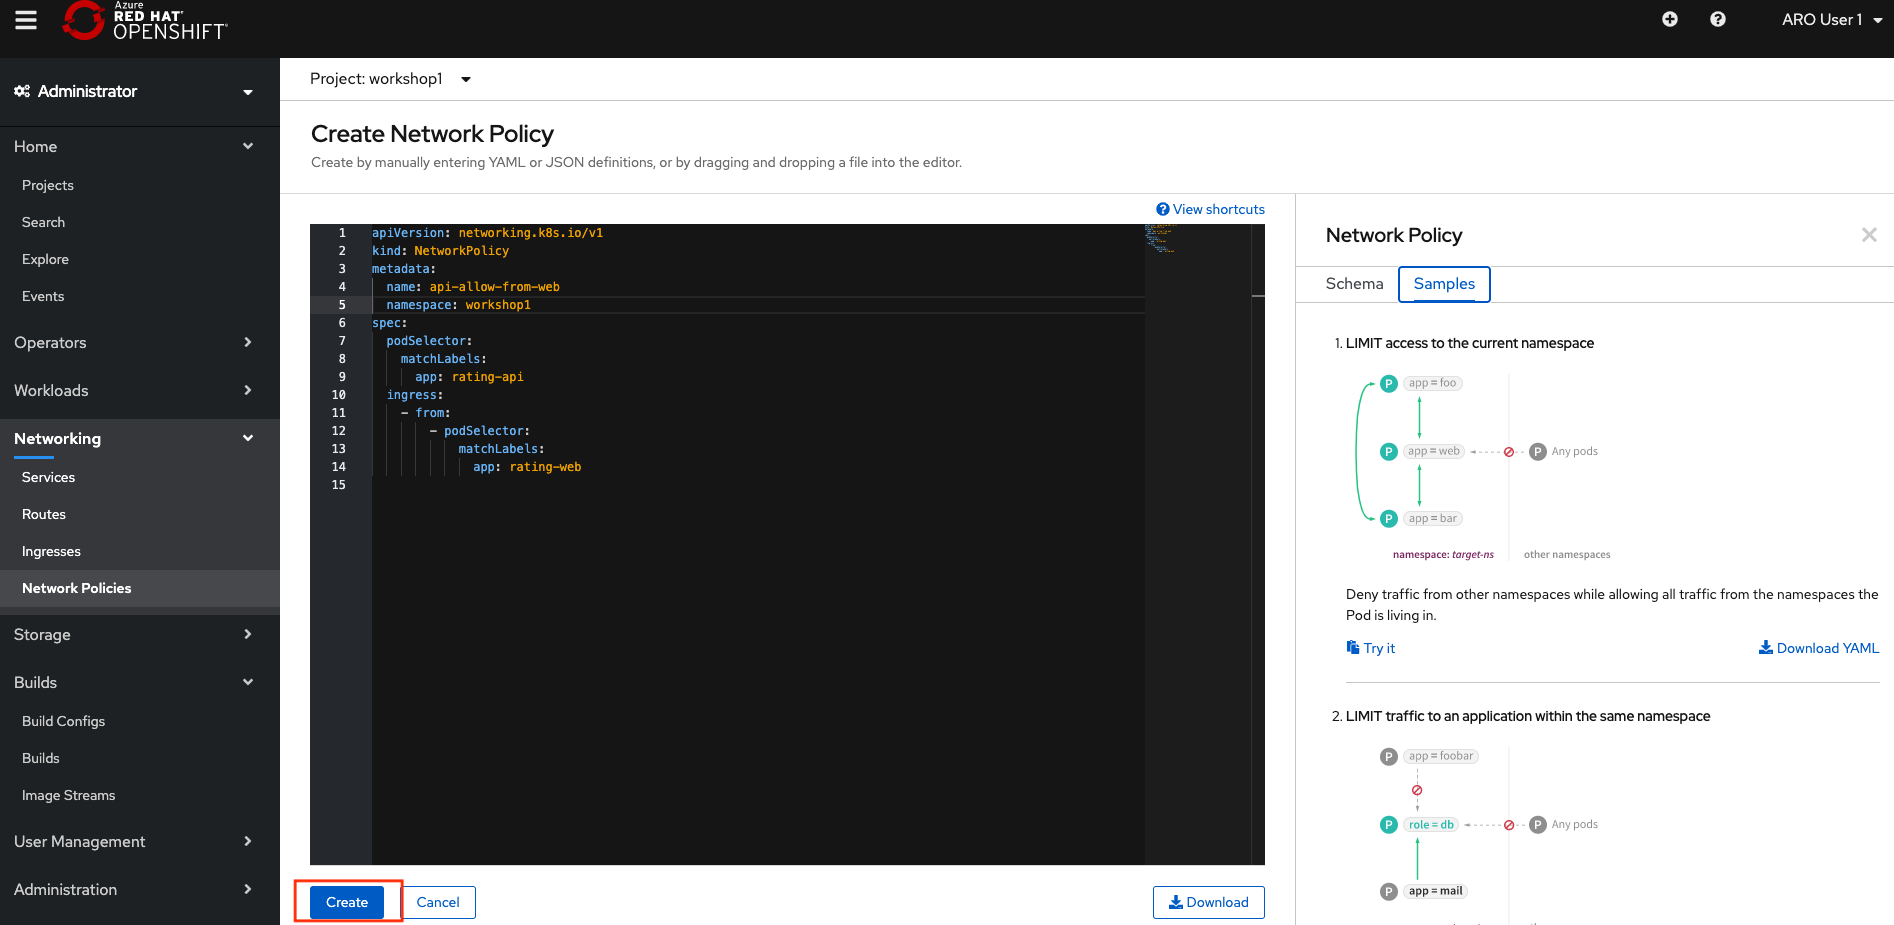
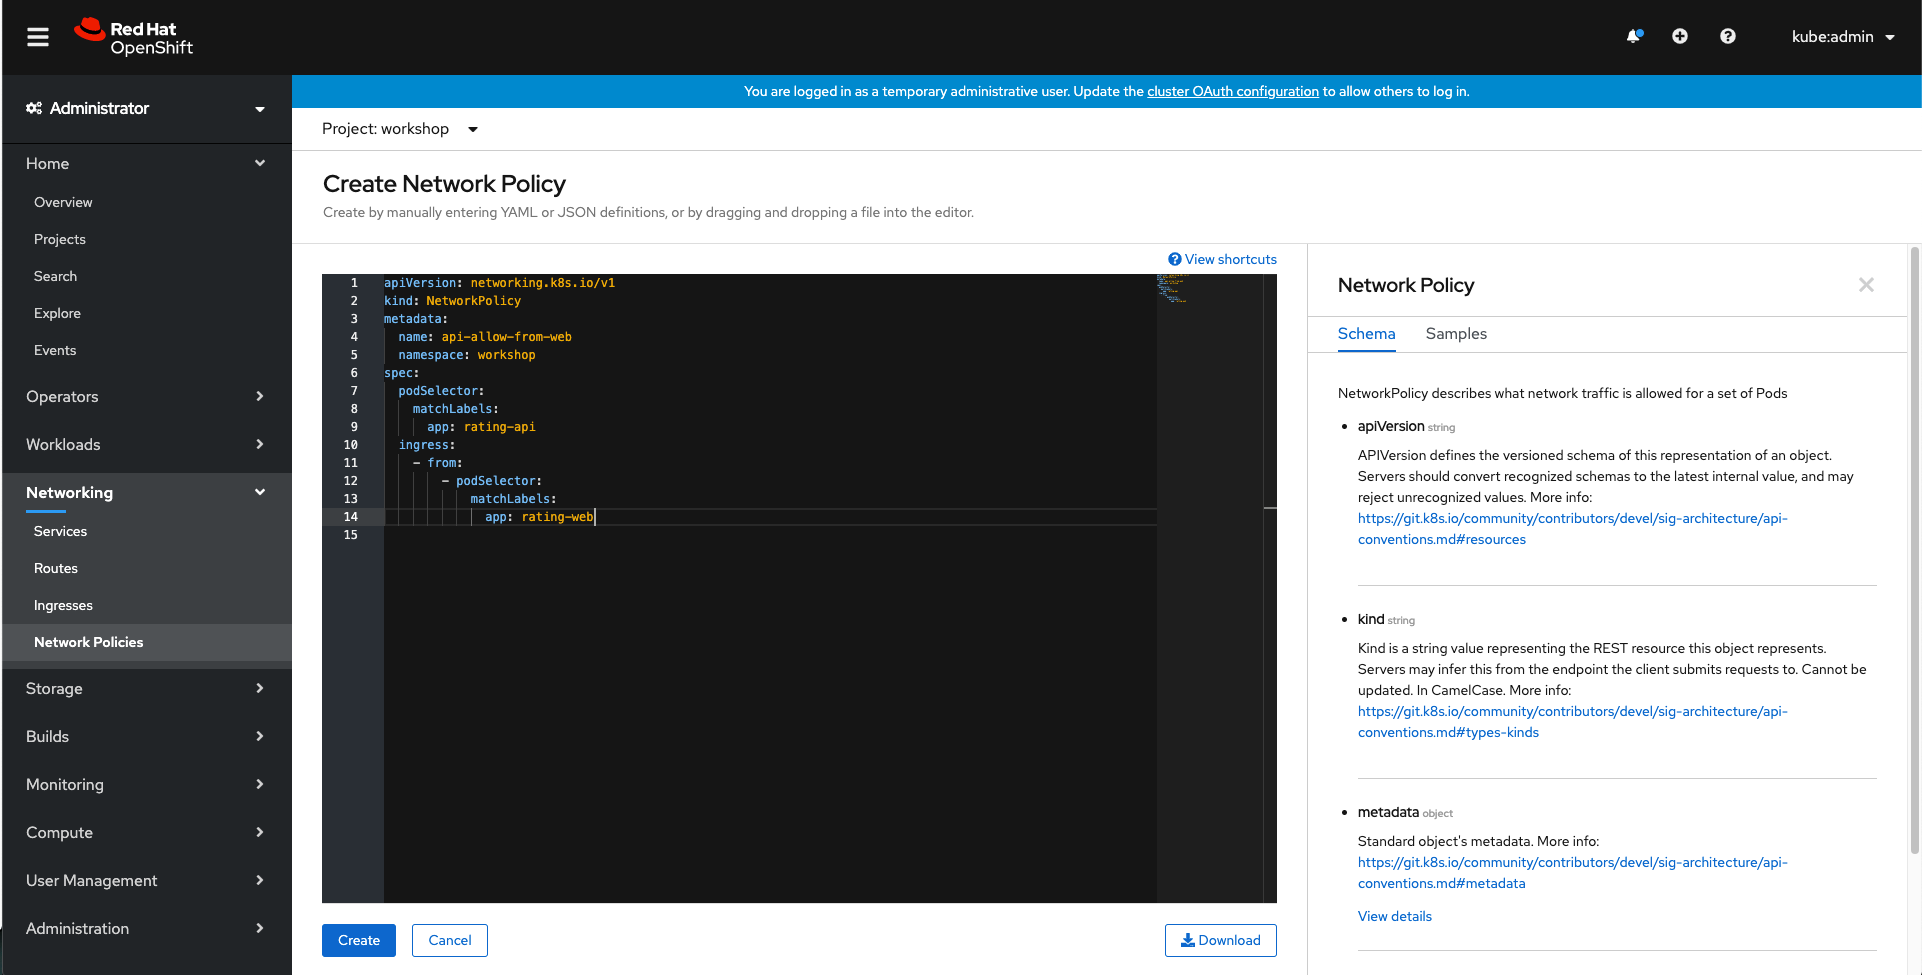
ARO4 updates to network policy

diff --git a/_entries/02-06 networkpolicy.md b/_entries/02-06 networkpolicy.md
@@ -5,13 +5,16 @@ title: Create Network Policy
 parent-id: lab-ratingapp
 ---
 
-Now that you have the application working, it is time to apply some security hardening. You'll use [network policies](https://docs.openshift.com/aro/admin_guide/managing_networking.html#admin-guide-networking-networkpolicy) to restrict communication to the `rating-api`.
+Now that you have the application working, it is time to apply some security hardening. You'll use [network policies](https://docs.openshift.com/aro/4/networking/network_policy/about-network-policy.html) to restrict communication to the `rating-api`.
 
 ### Switch to the Cluster Console
 
 {% collapsible %}
 
-Switch to the **Cluster Console** page. Switch to project **workshop**. Click **Create Network Policy**.
+Switch to the Administrator console.
+![Switch to the Administrator console](media/switch-to-admin-console.png)
+
+Make sure you're in the **workshop** project, expand **Networking** and click **Create Network Policy**.
 ![Cluster console page](media/cluster-console.png)
 
 {% endcollapsible %}
@@ -48,4 +51,4 @@ Click **Create**.
 {% endcollapsible %}
 
 > **Resources**
-> * [ARO Documentation - Managing Networking with Network Policy](https://docs.openshift.com/aro/admin_guide/managing_networking.html#admin-guide-networking-networkpolicy)
+> * [ARO Documentation - Managing Networking with Network Policy](https://docs.openshift.com/aro/4/networking/network_policy/creating-network-policy.html)
